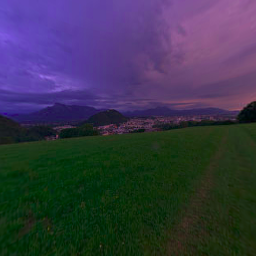
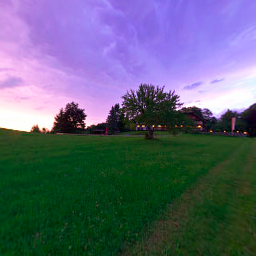
Changes Interface

diff --git a/project/MyScene.js b/project/MyScene.js
@@ -66,9 +66,11 @@ export class MyScene extends CGFscene {
 		this.sphereAppearance.setSpecular(0.0, 0.0, 0.0, 1);
 		this.sphereAppearance.setShininess(120);
 
+        this.landscapeIDs = {'Mountains': 0 , 'Sunset': 1};
         //Objects connected to MyInterface
         this.displayAxis = true;
         this.displaySunset = false;
+        this.selectedLandscape = 0;
     }
     initLights() {
         this.lights[0].setPosition(15, 2, 5, 1);
@@ -158,7 +160,7 @@ export class MyScene extends CGFscene {
         //This sphere does not have defined texture coordinates
         //this.incompleteSphere.display();
         //this.movingObject.display();
-        this.cubeMap.textureList = (this.displaySunset) ? this.sunsetTexture : this.mountainTexture;
+        this.cubeMap.textureList = (this.selectedLandscape == 1) ? this.sunsetTexture : this.mountainTexture ;
 
         this.cubeMap.display();
 

diff --git a/project/MyInterface.js b/project/MyInterface.js
@@ -20,7 +20,7 @@ export class MyInterface extends CGFinterface {
 
         //Checkbox element in GUI
         this.gui.add(this.scene, 'displayAxis').name('Display Axis');
-        this.gui.add(this.scene, 'displaySunset').name('Sunset');
+        this.gui.add(this.scene, 'selectedLandscape', this.scene.landscapeIDs).name('Landscapes');
 
         this.initKeys();
         return true;
